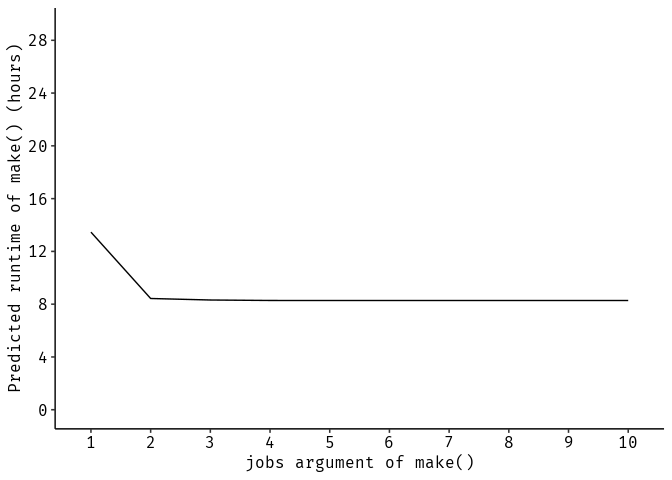
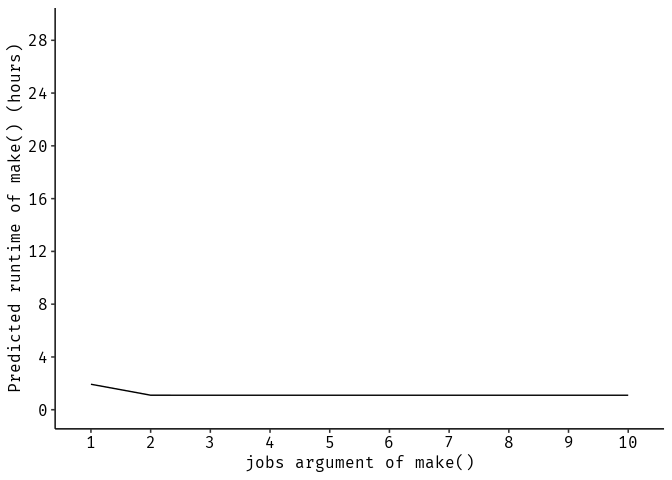
save

diff --git a/README.md b/README.md
@@ -65,42 +65,39 @@ Predicted total runtime
 
 ``` r
 source("scripts/drake.R")
-predict_runtime(config, from_scratch = TRUE, targets_only = TRUE)
+predict_runtime(drake_config(), from_scratch = TRUE, targets_only = TRUE)
 ```
 
     ## Warning: Some targets were never actually timed, And no hypothetical time was specified in `known_times`. Assuming a runtime of 0 for these targets:
-    ##   lrn_brt
-    ##   lrn_gam_diplodia_perf
-    ##   lrn_gam_diplodia_pred
-    ##   lrn_gam_fusarium_perf
-    ##   lrn_gam_fusarium_pred
-    ##   lrn_gam_armillaria_perf
-    ##   lrn_gam_armillaria_pred
-    ##   lrn_gam_heterobasidion_perf
-    ##   lrn_gam_heterobasidion_pred
-    ##   ps_brt
-    ##   wrapper_brt
     ##   benchmark_evaluation_report
-    ##   tune_ctrl_brt
-    ##   tune_ctrl_gam
-    ##   wrapper_gam_diplodia_perf
+    ##   bm_kknn
+    ##   bm_rf
+    ##   bm_svm
+    ##   bm_xgboost
     ##   bm_brt
-    ##   bm_gam
+    ##   bm_gam_diplodia
+    ##   bm_gam_fusarium
+    ##   bm_gam_armillaria
+    ##   bm_gam_heterobasidion
     ##   prediction_rf
     ##   prediction_svm
+    ##   prediction_xgboost
     ##   prediction_kknn
     ##   prediction_glm
+    ##   prediction_gam_diplodia
+    ##   prediction_gam_fusarium
+    ##   prediction_gam_armillaria
+    ##   prediction_gam_heterobasidion
 
-    ## [1] "48456.43s (~13.46 hours)"
+    ## [1] "6951.184s (~1.93 hours)"
 
 Acceleration by parallelization of `make()` call
 
 ``` r
-config = drake_config()
 time <- c()
 for (jobs in 1:10){
   time[jobs] <- predict_runtime(
-    config,
+    drake_config(),
     jobs = jobs,
     from_scratch = TRUE,
     known_times = build_times(targets_only = TRUE)$elapsed
@@ -160,22 +157,18 @@ categories:
 <!-- end list -->
 
 ``` r
-# source("scripts/drake.R")
-# print(config)
-# vis_drake_graph(config)
-vis_drake_graph(config, group = "stage", clusters = c("data", "task", "learner",
-                                                      "mlr_settings",
-                                                      "prediction"),
+vis_drake_graph(drake_config(), group = "stage", clusters = c("data", "prediction",
+                                                              "mlr_settings"),
                 targets_only = TRUE, show_output_files = FALSE,
                 navigationButtons = FALSE, selfcontained = TRUE,
                 file = "drake.png") +
   ggpubr::theme_pubr()
 ```
 
-![](drake.png)
+![](./drake.png)
 
 If all intermediate objects should be visualized (not recommended):
 
 ``` r
-vis_drake_graph(config) + ggpubr::theme_pubr()
+vis_drake_graph(drake_config()) + ggpubr::theme_pubr()
 ```
